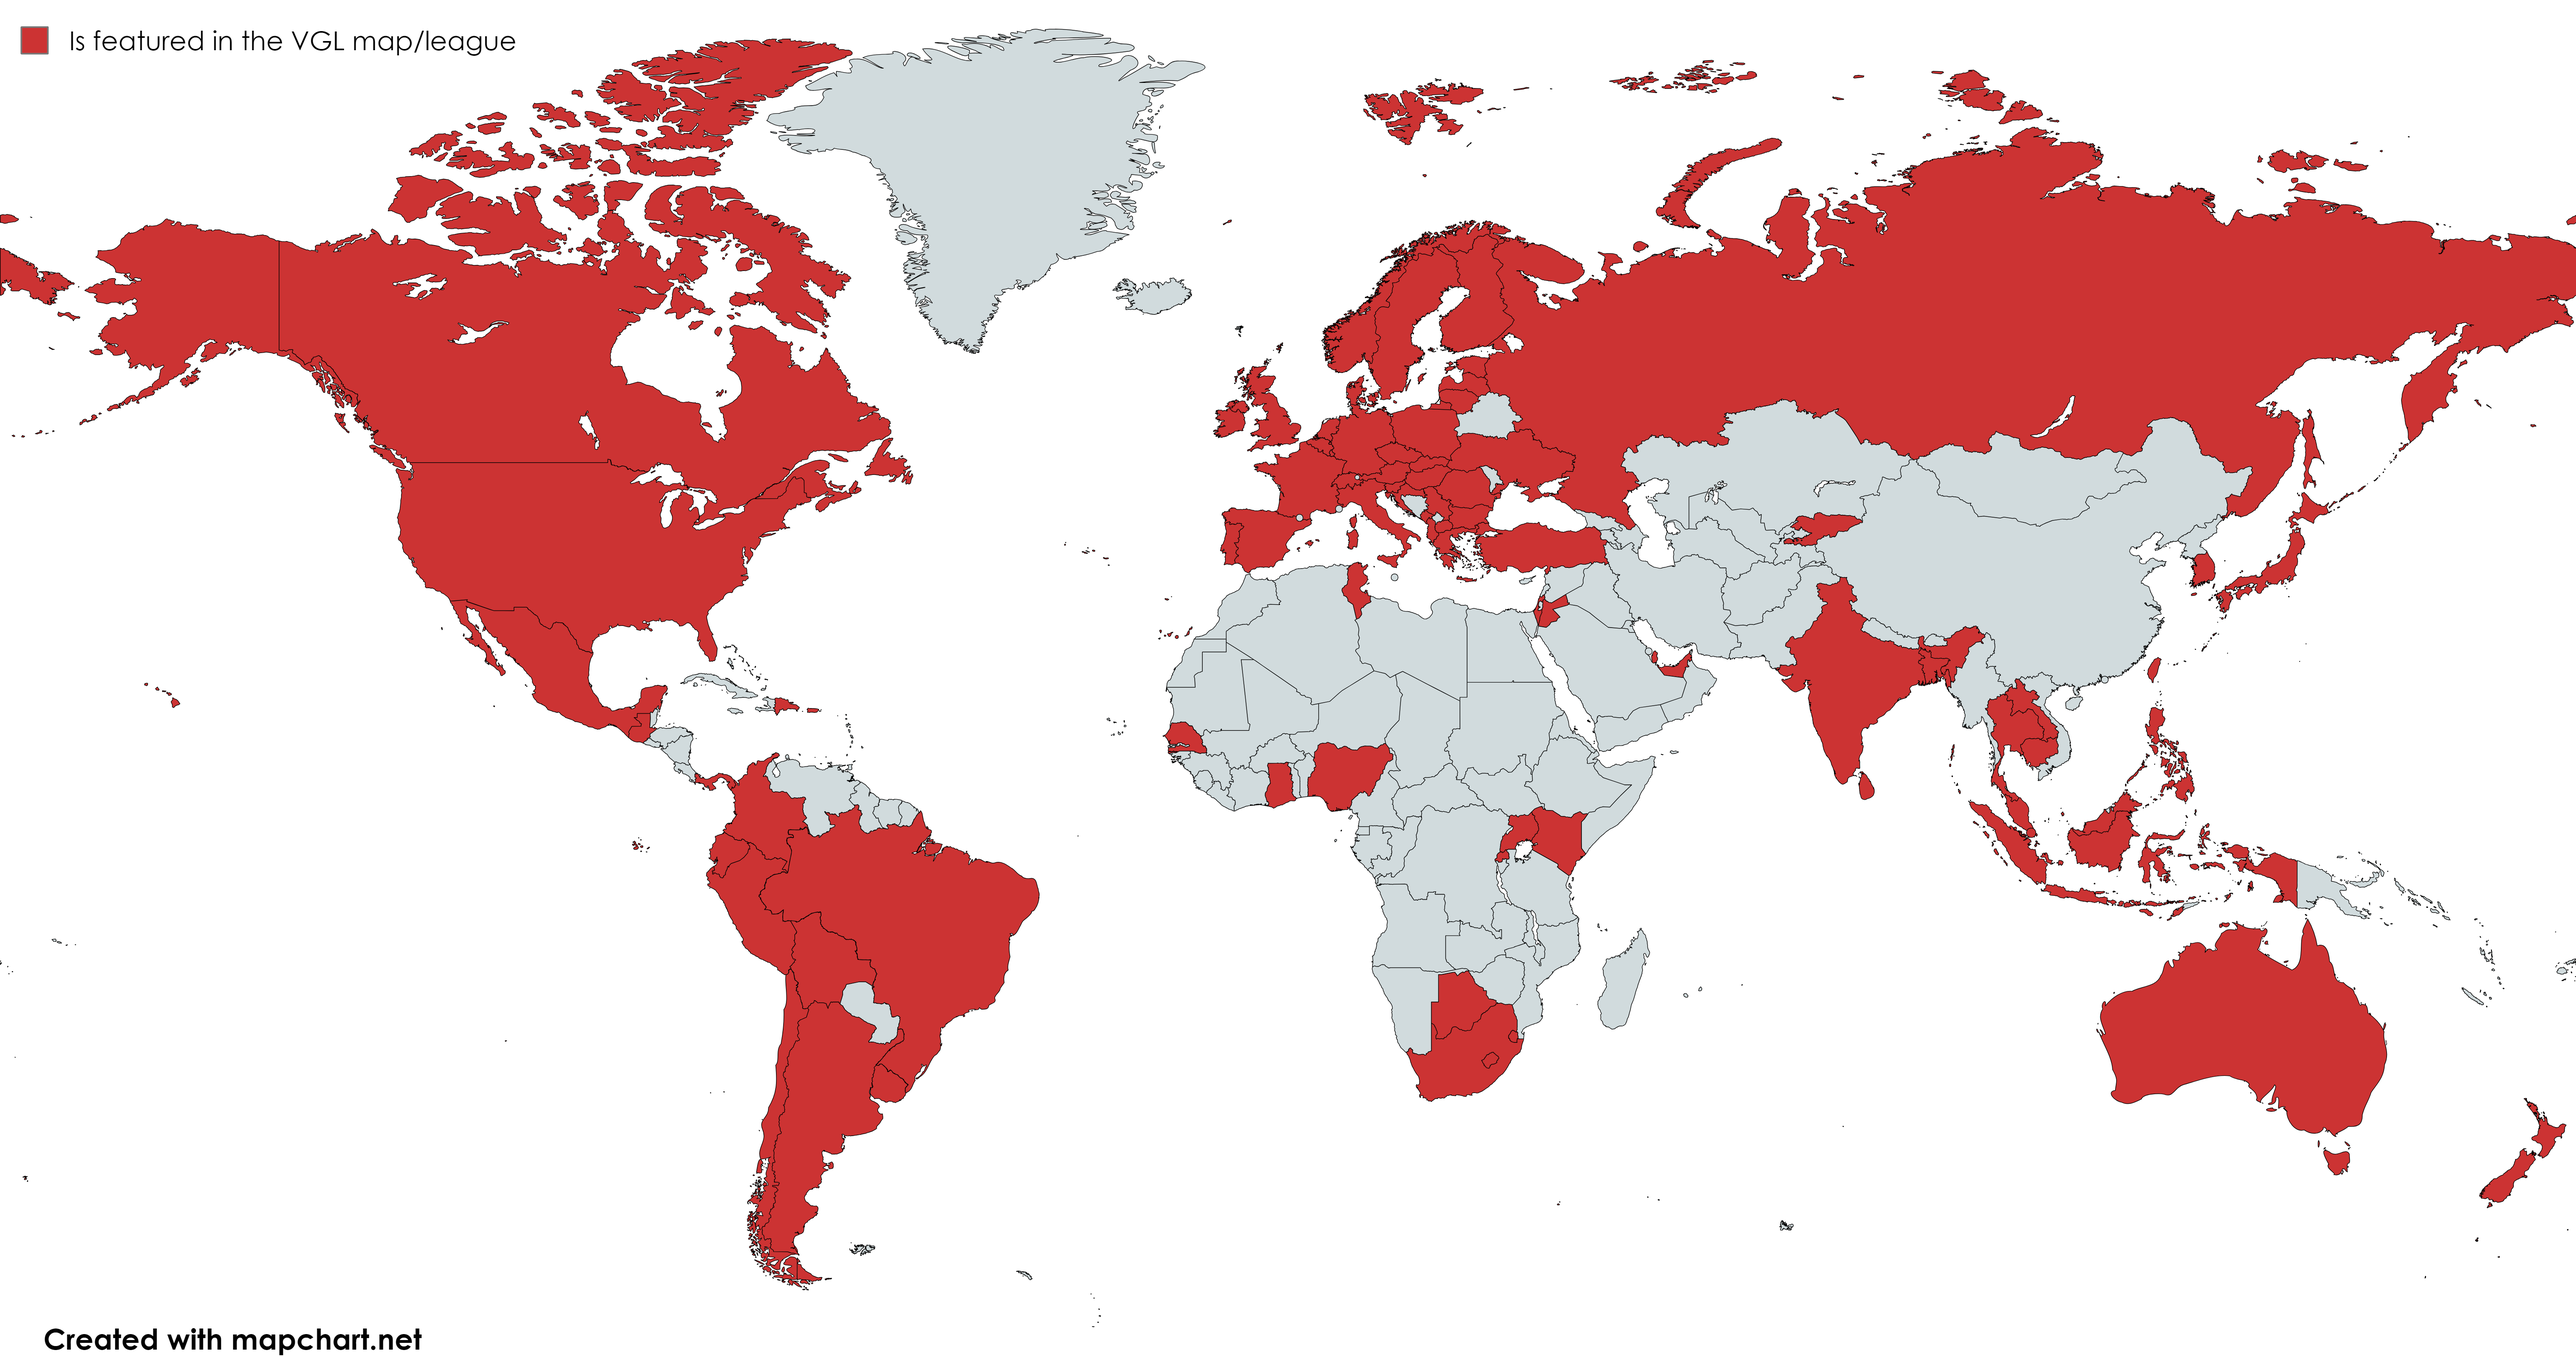
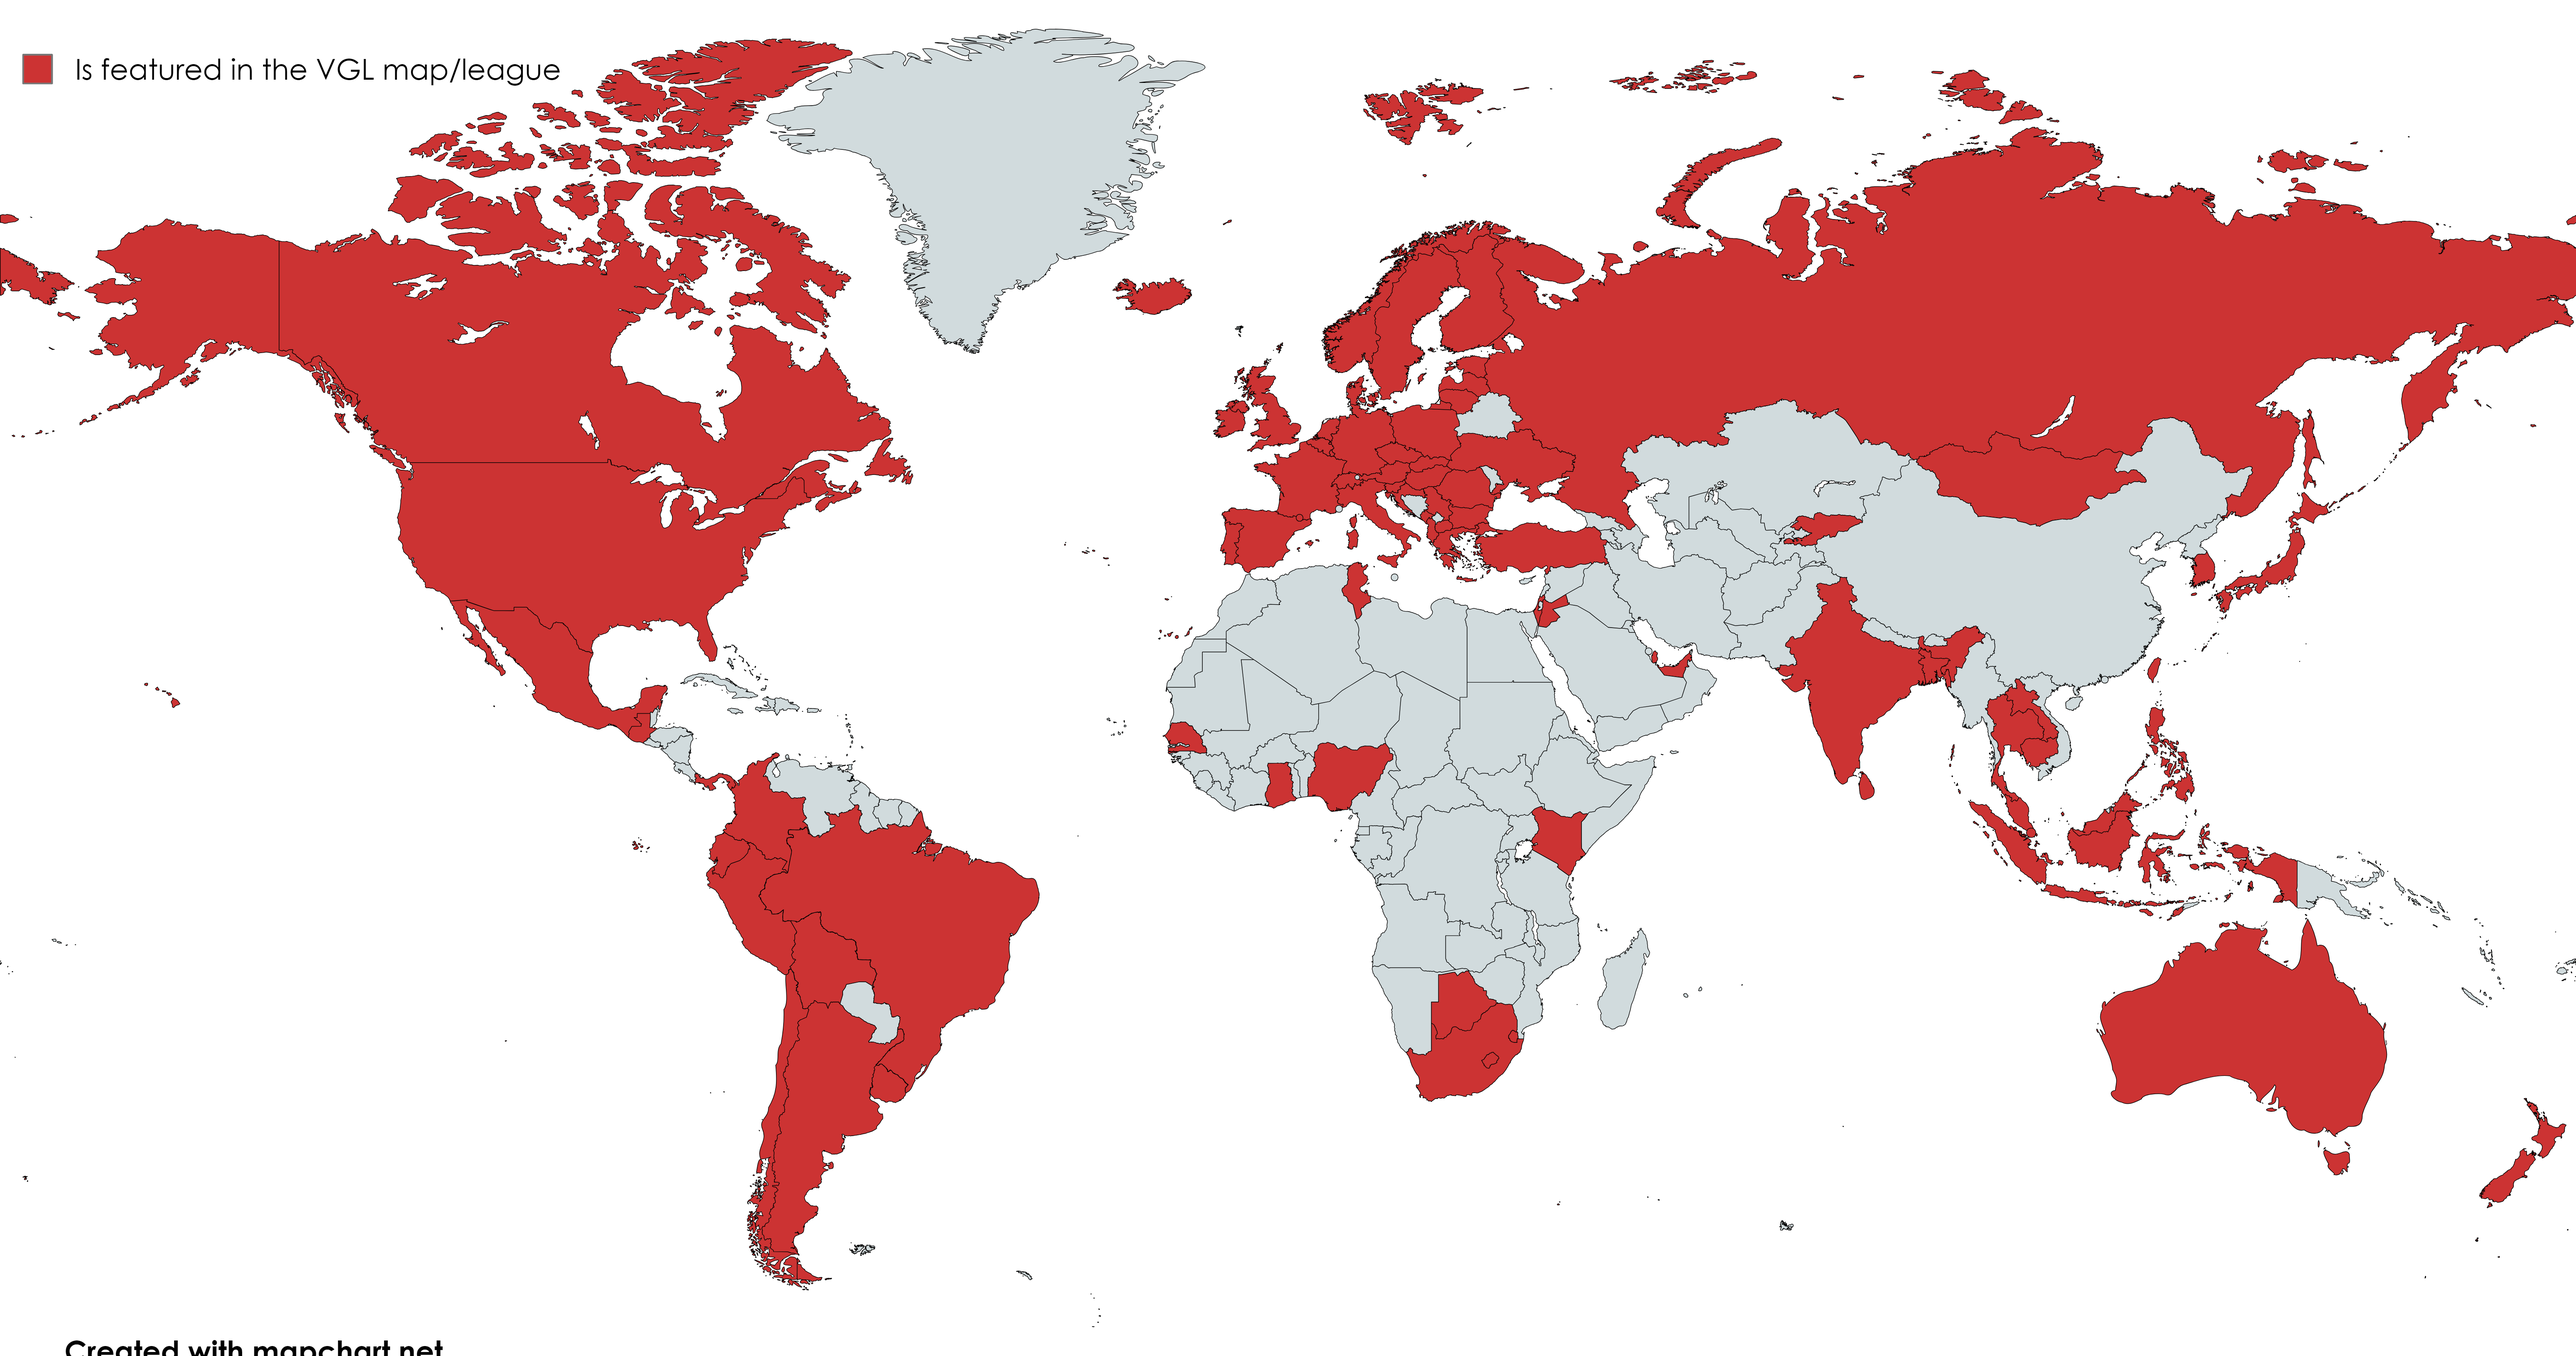
ff

diff --git a/geo/map/script.js b/geo/map/script.js
@@ -1,7 +1,81 @@
 document.addEventListener('DOMContentLoaded', function() {
     let data = [
+        { country: 'Albania', locations: 400 },
+        { country: 'Andorra', locations: 133 },
+        { country: 'Argentina', locations: 2830 },
+        { country: 'Australia', locations: 3301 },
+        { country: 'Austria', locations: 960 },
+        { country: 'Bangladesh', locations: 844 },
+        { country: 'Belgium', locations: 678 },
+        { country: 'Bolivia', locations: 1006 },
+        { country: 'Botswana', locations: 600 },
+        { country: 'Brazil', locations: 3365 },
+        { country: 'Bulgaria', locations: 890 },
+        { country: 'Cambodia', locations: 1070 },
+        { country: 'Canada', locations: 3650 },
+        { country: 'Chile', locations: 1700 },
+        { country: 'Colombia', locations: 1850 },
+        { country: 'Croatia', locations: 800 },
+        { country: 'Czechia', locations: 900 },
+        { country: 'Denmark', locations: 900 },
+        { country: 'Ecuador', locations: 1050 },
+        { country: 'Estonia', locations: 600 },
+        { country: 'Finland', locations: 1122 },
+        { country: 'France', locations: 2235 },
+        { country: 'Germany', locations: 1444 },
+        { country: 'Ghana', locations: 1014 },
+        { country: 'Greece', locations: 1250 },
+        { country: 'Guatemala', locations: 800 },
+        { country: 'Hungary', locations: 900 },
+        { country: 'Iceland', locations: 550 },
+        { country: 'India', locations: 1689 },
+        { country: 'Indonesia', locations: 2200 },
+        { country: 'Ireland', locations: 900 },
+        { country: 'Israel', locations: 560 },
+        { country: 'Italy', locations: 1749 },
+        { country: 'Japan', locations: 1880 },
+        { country: 'Jordan', locations: 600 },
+        { country: 'Kenya', locations: 1449 },
+        { country: 'Kyrgyzstan', locations: 600 },
         { country: 'Laos', locations: 46 },
-        { country: 'Australia', locations: 3301 }
+        { country: 'Latvia', locations: 600 },
+        { country: 'Lesotho', locations: 300 },
+        { country: 'Lithuania', locations: 600 },
+        { country: 'Luxemburg', locations: 211 },
+        { country: 'Malaysia', locations: 1900 },
+        { country: 'Mexico', locations: 2800 },
+        { country: 'Mongolia', locations: 233 },
+        { country: 'Montenegro', locations: 342 },
+        { country: 'Netherlands', locations: 812 },
+        { country: 'New Zealand', locations: 1086 },
+        { country: 'Nigeria', locations: 890 },
+        { country: 'North Macedonia', locations: 250 },
+        { country: 'Norway', locations: 1050 },
+        { country: 'Panama', locations: 330 },
+        { country: 'Peru', locations: 1670 },
+        { country: 'Philippines', locations: 2011 },
+        { country: 'Poland', locations: 1700 },
+        { country: 'Portugal', locations: 850 },
+        { country: 'Romania', locations: 1500 },
+        { country: 'Russia', locations: 4500 },
+        { country: 'Senegal', locations: 994 },
+        { country: 'Serbia', locations: 560 },
+        { country: 'Singapore', locations: 205 },
+        { country: 'Slovakia', locations: 600 },
+        { country: 'Slovenia', locations: 480 },
+        { country: 'South Africa', locations: 2637 },
+        { country: 'Spain', locations: 2389 },
+        { country: 'Sri Lanka', locations: 890 },
+        { country: 'Sweden', locations: 1550 },
+        { country: 'Switzerland', locations: 720 },
+        { country: 'Taiwan', locations: 870 },
+        { country: 'Thailand', locations: 2250 },
+        { country: 'Tunisia', locations: 500 },
+        { country: 'Turkey', locations: 1833 },
+        { country: 'Ukraine', locations: 1200 },
+        { country: 'United Kingdom', locations: 2505 },
+        { country: 'United States of America', locations: 5300 },
+        { country: 'Uruguay', locations: 900 }
     ];
 
     // Sort data alphabetically based on country names
